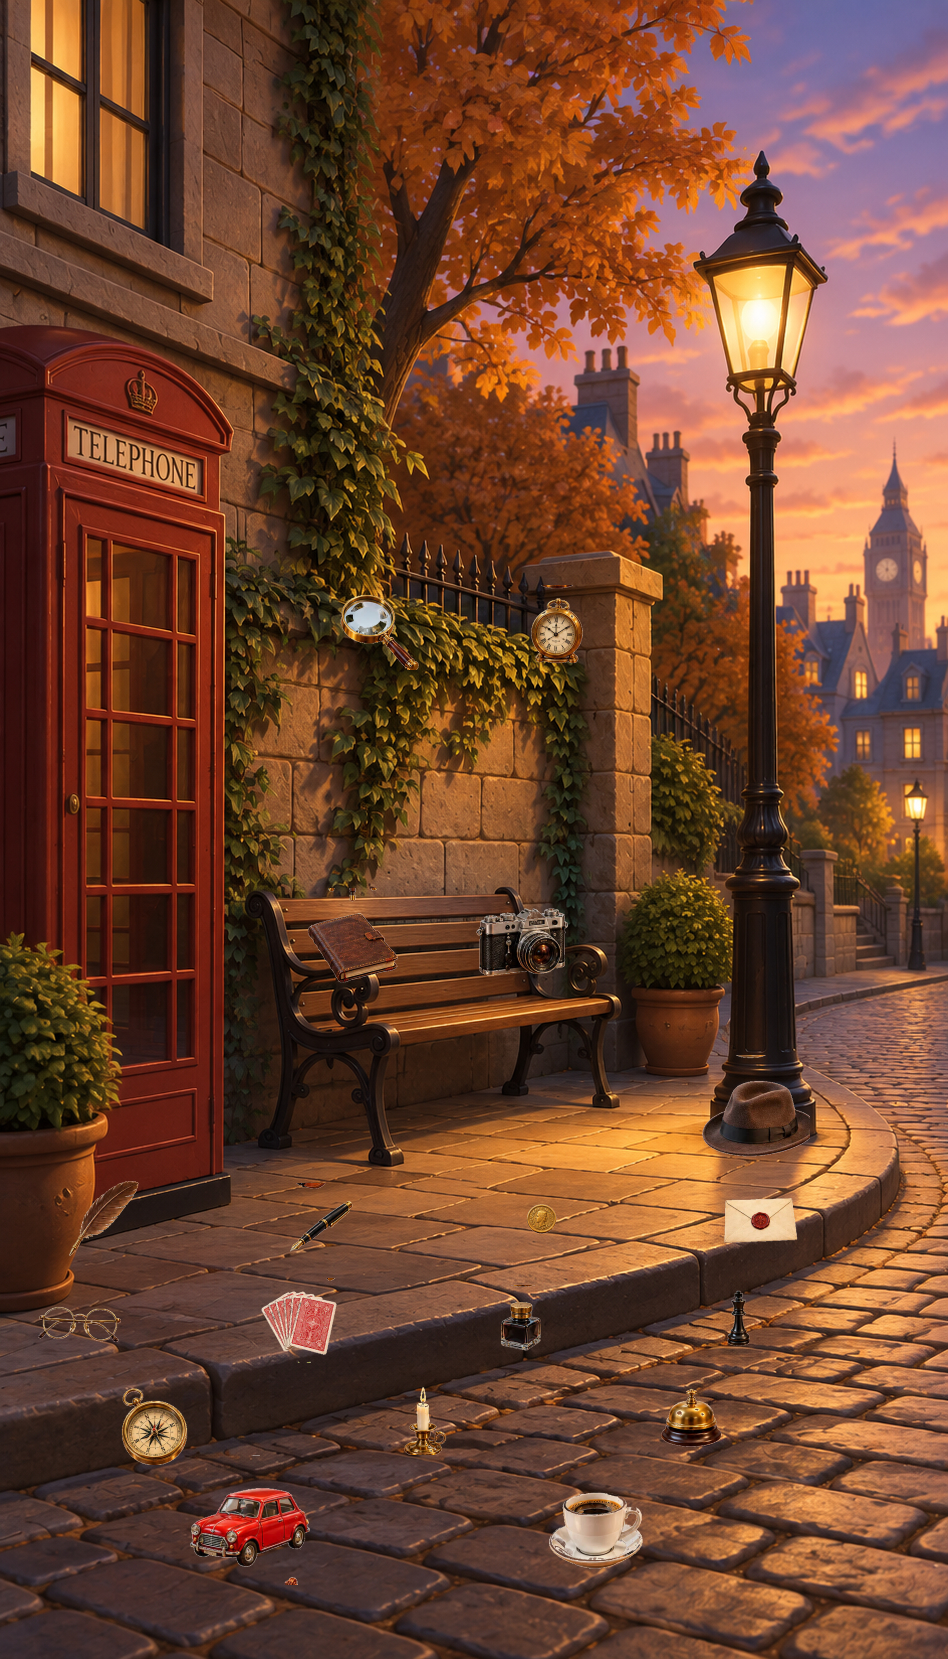
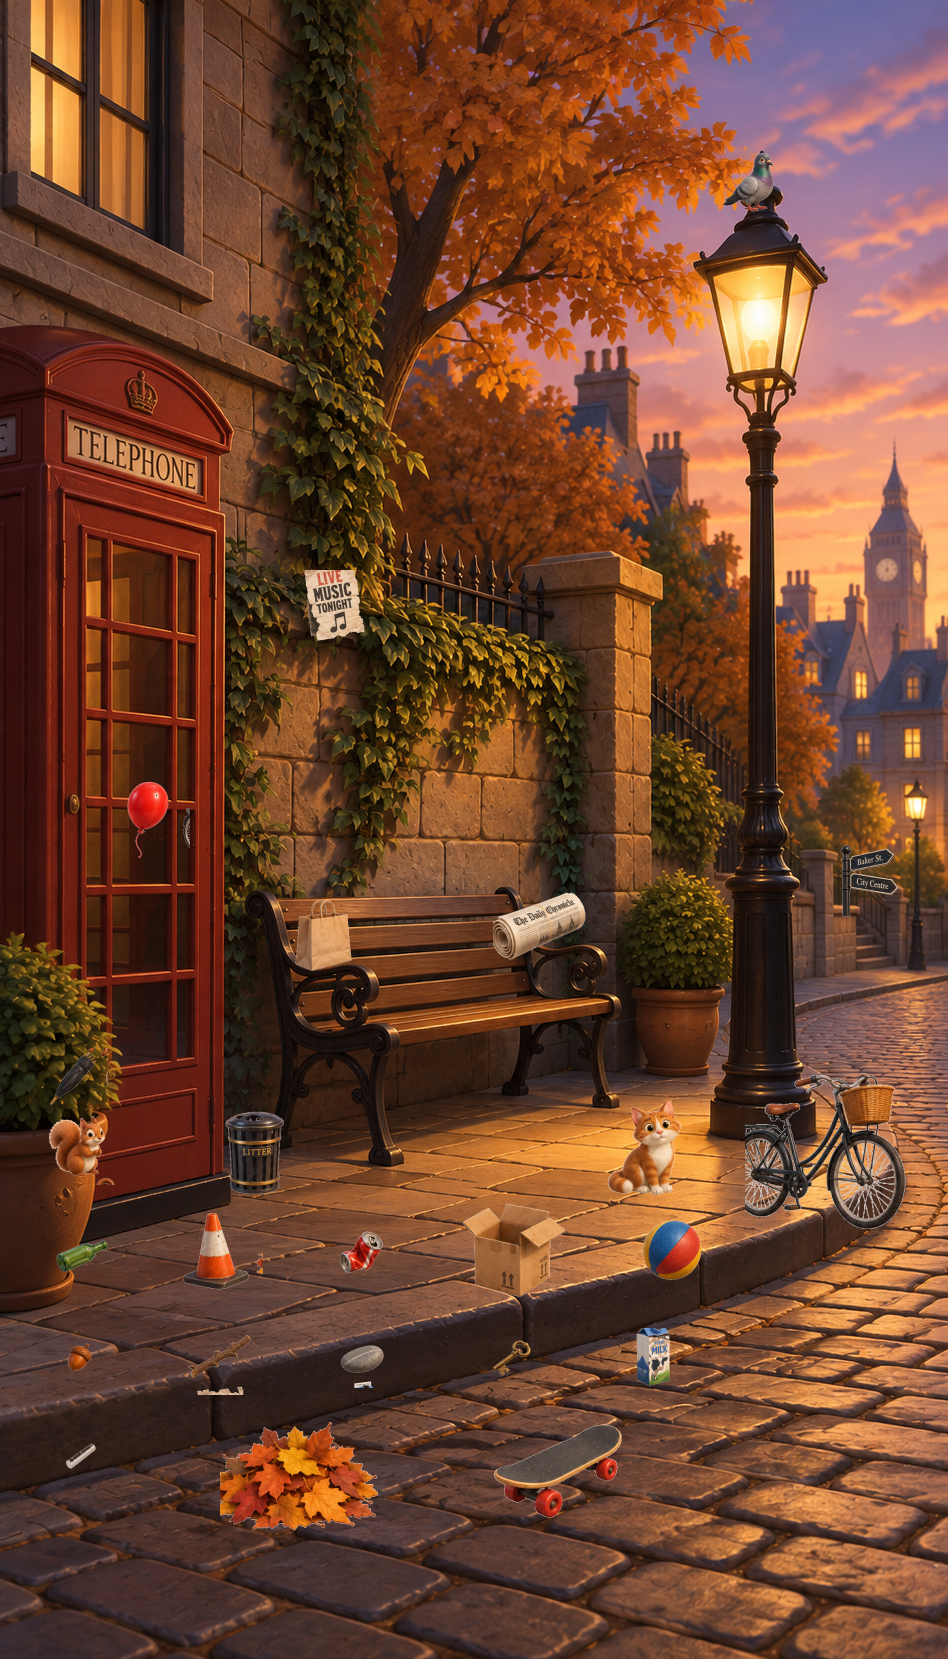
Give level 2 street-themed objects instead of reused office items
Level 2 previously reused level 1's office objects (chess piece,
candle, inkwell...) which looked out of place scattered on an
outdoor street corner. Replaces them with 24 objects that actually
belong there: a pigeon on the lamppost, a cat and squirrel, a
bicycle, litter bin, fallen leaves, and other street clutter, each
composited onto the clean background with the same zero-trace cover
technique as level 1.

Claude-Session: https://claude.ai/code/session_01Am8RfmmEM96ZWNENoJi2oS

diff --git a/src/data/detectiveHiddenMissions.ts b/src/data/detectiveHiddenMissions.ts
@@ -22,24 +22,30 @@ const DETECTIVE_OBJECTS: HiddenObjectItem[] = [
 ];
 
 const DETECTIVE_OBJECTS_L2: HiddenObjectItem[] = [
-    { id: 'quill', left: 5.8, top: 70.83, width: 9.49, height: 5.42, icon: require('../../assets/missions/detective/icons/quill.jpg'), cover: require('../../assets/missions/detective/covers2/quill.jpg'), labelAr: 'ريشة الكتابة', labelEn: 'Quill' },
-    { id: 'pen', left: 29.85, top: 71.31, width: 7.91, height: 4.52, icon: require('../../assets/missions/detective/icons/pen.jpg'), cover: require('../../assets/missions/detective/covers2/pen.jpg'), labelAr: 'القلم', labelEn: 'Pen' },
-    { id: 'coin', left: 54.11, top: 71.91, width: 5.8, height: 3.32, icon: require('../../assets/missions/detective/icons/coin.jpg'), cover: require('../../assets/missions/detective/covers2/coin.jpg'), labelAr: 'العملة', labelEn: 'Coin' },
-    { id: 'envelope', left: 75.95, top: 71.13, width: 8.44, height: 4.82, icon: require('../../assets/missions/detective/icons/envelope.jpg'), cover: require('../../assets/missions/detective/covers2/envelope.jpg'), labelAr: 'الظرف', labelEn: 'Envelope' },
-    { id: 'glasses', left: 3.69, top: 76.85, width: 9.49, height: 5.42, icon: require('../../assets/missions/detective/icons/glasses.jpg'), cover: require('../../assets/missions/detective/covers2/glasses.jpg'), labelAr: 'النظارة', labelEn: 'Glasses' },
-    { id: 'cards', left: 27.22, top: 77.03, width: 8.97, height: 5.12, icon: require('../../assets/missions/detective/icons/cards.jpg'), cover: require('../../assets/missions/detective/covers2/cards.jpg'), labelAr: 'أوراق اللعب', labelEn: 'Playing cards' },
-    { id: 'inkwell', left: 51.16, top: 77.46, width: 7.38, height: 4.22, icon: require('../../assets/missions/detective/icons/inkwell.jpg'), cover: require('../../assets/missions/detective/covers2/inkwell.jpg'), labelAr: 'دواة الحبر', labelEn: 'Inkwell' },
-    { id: 'chesspiece', left: 74.68, top: 77.64, width: 6.86, height: 3.92, icon: require('../../assets/missions/detective/icons/chesspiece.jpg'), cover: require('../../assets/missions/detective/covers2/chesspiece.jpg'), labelAr: 'قطعة الشطرنج', labelEn: 'Chess piece' },
-    { id: 'compass', left: 11.08, top: 82.88, width: 9.49, height: 5.42, icon: require('../../assets/missions/detective/icons/compass.jpg'), cover: require('../../assets/missions/detective/covers2/compass.jpg'), labelAr: 'البوصلة', labelEn: 'Compass' },
-    { id: 'candle', left: 40.61, top: 83.48, width: 7.38, height: 4.22, icon: require('../../assets/missions/detective/icons/candle.jpg'), cover: require('../../assets/missions/detective/covers2/candle.jpg'), labelAr: 'الشمعة', labelEn: 'Candle' },
-    { id: 'bell', left: 68.35, top: 83.06, width: 8.97, height: 5.12, icon: require('../../assets/missions/detective/icons/bell.jpg'), cover: require('../../assets/missions/detective/covers2/bell.jpg'), labelAr: 'الجرس', labelEn: 'Bell' },
-    { id: 'toycar', left: 19.51, top: 87.7, width: 13.71, height: 7.84, icon: require('../../assets/missions/detective/icons/toycar.jpg'), cover: require('../../assets/missions/detective/covers2/toycar.jpg'), labelAr: 'سيارة اللعبة', labelEn: 'Toy car' },
-    { id: 'coffee', left: 57.49, top: 88.31, width: 11.6, height: 6.63, icon: require('../../assets/missions/detective/icons/coffee.jpg'), cover: require('../../assets/missions/detective/covers2/coffee.jpg'), labelAr: 'فنجان القهوة', labelEn: 'Coffee cup' },
-    { id: 'notebook', left: 31.96, top: 53.53, width: 10.02, height: 5.73, icon: require('../../assets/missions/detective/icons/notebook.jpg'), cover: require('../../assets/missions/detective/covers2/notebook.jpg'), labelAr: 'دفتر الملاحظات', labelEn: 'Notebook' },
-    { id: 'camera', left: 49.58, top: 53.35, width: 10.55, height: 6.03, icon: require('../../assets/missions/detective/icons/camera.jpg'), cover: require('../../assets/missions/detective/covers2/camera.jpg'), labelAr: 'الكاميرا', labelEn: 'Camera' },
-    { id: 'magnifier', left: 35.34, top: 34.96, width: 9.49, height: 5.42, icon: require('../../assets/missions/detective/icons/magnifier.jpg'), cover: require('../../assets/missions/detective/covers2/magnifier.jpg'), labelAr: 'المكبرة', labelEn: 'Magnifying glass' },
-    { id: 'clock', left: 54.85, top: 35.26, width: 8.44, height: 4.82, icon: require('../../assets/missions/detective/icons/clock.jpg'), cover: require('../../assets/missions/detective/covers2/clock.jpg'), labelAr: 'الساعة', labelEn: 'Clock' },
-    { id: 'hat', left: 73.84, top: 63.59, width: 11.6, height: 6.63, icon: require('../../assets/missions/detective/icons/hat.jpg'), cover: require('../../assets/missions/detective/covers2/hat.jpg'), labelAr: 'القبعة', labelEn: 'Hat' },
+    { id: 'bottle', left: 5.59, top: 73.72, width: 5.8, height: 3.32, icon: require('../../assets/missions/detective/icons/bottle.jpg'), cover: require('../../assets/missions/detective/covers2/bottle.jpg'), labelAr: 'زجاجة فارغة', labelEn: 'Empty bottle' },
+    { id: 'cone', left: 18.78, top: 72.81, width: 8.97, height: 5.12, icon: require('../../assets/missions/detective/icons/cone.jpg'), cover: require('../../assets/missions/detective/covers2/cone.jpg'), labelAr: 'مخروط تحذيري', labelEn: 'Traffic cone' },
+    { id: 'sodacan', left: 35.13, top: 73.72, width: 5.8, height: 3.32, icon: require('../../assets/missions/detective/icons/sodacan.jpg'), cover: require('../../assets/missions/detective/covers2/sodacan.jpg'), labelAr: 'علبة مشروب', labelEn: 'Soda can' },
+    { id: 'box', left: 48, top: 72.03, width: 11.6, height: 6.63, icon: require('../../assets/missions/detective/icons/box.jpg'), cover: require('../../assets/missions/detective/covers2/box.jpg'), labelAr: 'صندوق كرتون', labelEn: 'Cardboard box' },
+    { id: 'ball', left: 66.77, top: 73.12, width: 7.91, height: 4.52, icon: require('../../assets/missions/detective/icons/ball.jpg'), cover: require('../../assets/missions/detective/covers2/ball.jpg'), labelAr: 'الكرة', labelEn: 'Ball' },
+    { id: 'acorn', left: 6.33, top: 80.77, width: 4.22, height: 2.41, icon: require('../../assets/missions/detective/icons/acorn.jpg'), cover: require('../../assets/missions/detective/covers2/acorn.jpg'), labelAr: 'حبة بلوط', labelEn: 'Acorn' },
+    { id: 'twig', left: 19.51, top: 79.87, width: 7.38, height: 4.22, icon: require('../../assets/missions/detective/icons/twig.jpg'), cover: require('../../assets/missions/detective/covers2/twig.jpg'), labelAr: 'غصن صغير', labelEn: 'Twig' },
+    { id: 'stone', left: 35.13, top: 80.35, width: 5.8, height: 3.32, icon: require('../../assets/missions/detective/icons/stone.jpg'), cover: require('../../assets/missions/detective/covers2/stone.jpg'), labelAr: 'حجر', labelEn: 'Stone' },
+    { id: 'key', left: 51.48, top: 80.65, width: 4.75, height: 2.71, icon: require('../../assets/missions/detective/icons/key.jpg'), cover: require('../../assets/missions/detective/covers2/key.jpg'), labelAr: 'مفتاح قديم', labelEn: 'Old key' },
+    { id: 'milk', left: 65.19, top: 80.05, width: 6.86, height: 3.92, icon: require('../../assets/missions/detective/icons/milk.jpg'), cover: require('../../assets/missions/detective/covers2/milk.jpg'), labelAr: 'علبة حليب', labelEn: 'Milk carton' },
+    { id: 'chalk', left: 6.33, top: 86.8, width: 4.22, height: 2.41, icon: require('../../assets/missions/detective/icons/chalk.jpg'), cover: require('../../assets/missions/detective/covers2/chalk.jpg'), labelAr: 'قطعة طباشير', labelEn: 'Chalk' },
+    { id: 'leafpile', left: 23.21, top: 83.79, width: 16.88, height: 9.64, icon: require('../../assets/missions/detective/icons/leafpile.jpg'), cover: require('../../assets/missions/detective/covers2/leafpile.jpg'), labelAr: 'كومة أوراق', labelEn: 'Leaf pile' },
+    { id: 'skateboard', left: 51.69, top: 84.39, width: 14.77, height: 8.44, icon: require('../../assets/missions/detective/icons/skateboard.jpg'), cover: require('../../assets/missions/detective/covers2/skateboard.jpg'), labelAr: 'لوح التزلج', labelEn: 'Skateboard' },
+    { id: 'bag', left: 29.54, top: 53.95, width: 8.44, height: 4.82, icon: require('../../assets/missions/detective/icons/bag.jpg'), cover: require('../../assets/missions/detective/covers2/bag.jpg'), labelAr: 'كيس ورقي', labelEn: 'Paper bag' },
+    { id: 'newspaper', left: 52, top: 53.53, width: 10.02, height: 5.73, icon: require('../../assets/missions/detective/icons/newspaper.jpg'), cover: require('../../assets/missions/detective/covers2/newspaper.jpg'), labelAr: 'جريدة', labelEn: 'Newspaper' },
+    { id: 'cat', left: 63.29, top: 66.31, width: 10.55, height: 6.03, icon: require('../../assets/missions/detective/icons/cat.jpg'), cover: require('../../assets/missions/detective/covers2/cat.jpg'), labelAr: 'القطة', labelEn: 'Cat' },
+    { id: 'poster', left: 30.59, top: 34.36, width: 8.44, height: 4.82, icon: require('../../assets/missions/detective/icons/poster.jpg'), cover: require('../../assets/missions/detective/covers2/poster.jpg'), labelAr: 'ملصق', labelEn: 'Poster' },
+    { id: 'pigeon', left: 76.27, top: 8.92, width: 6.86, height: 3.92, icon: require('../../assets/missions/detective/icons/pigeon.jpg'), cover: require('../../assets/missions/detective/covers2/pigeon.jpg'), labelAr: 'الحمامة', labelEn: 'Pigeon' },
+    { id: 'bicycle', left: 78.59, top: 64.2, width: 17.93, height: 10.25, icon: require('../../assets/missions/detective/icons/bicycle.jpg'), cover: require('../../assets/missions/detective/covers2/bicycle.jpg'), labelAr: 'الدراجة', labelEn: 'Bicycle' },
+    { id: 'streetsign', left: 87.87, top: 50.81, width: 7.91, height: 4.52, icon: require('../../assets/missions/detective/icons/streetsign.jpg'), cover: require('../../assets/missions/detective/covers2/streetsign.jpg'), labelAr: 'لوحة الشارع', labelEn: 'Street sign' },
+    { id: 'umbrella', left: 4.54, top: 63.17, width: 6.86, height: 3.92, icon: require('../../assets/missions/detective/icons/umbrella.jpg'), cover: require('../../assets/missions/detective/covers2/umbrella.jpg'), labelAr: 'المظلة', labelEn: 'Umbrella' },
+    { id: 'litterbin', left: 21.62, top: 66.61, width: 9.49, height: 5.42, icon: require('../../assets/missions/detective/icons/litterbin.jpg'), cover: require('../../assets/missions/detective/covers2/litterbin.jpg'), labelAr: 'سلة المهملات', labelEn: 'Litter bin' },
+    { id: 'balloon', left: 11.6, top: 47.02, width: 8.44, height: 4.82, icon: require('../../assets/missions/detective/icons/balloon.jpg'), cover: require('../../assets/missions/detective/covers2/balloon.jpg'), labelAr: 'البالون', labelEn: 'Balloon' },
+    { id: 'squirrel', left: 4.75, top: 67.21, width: 7.38, height: 4.22, icon: require('../../assets/missions/detective/icons/squirrel.jpg'), cover: require('../../assets/missions/detective/covers2/squirrel.jpg'), labelAr: 'السنجاب', labelEn: 'Squirrel' },
 ];
 
 export const DETECTIVE_HIDDEN_MISSIONS: HiddenObjectMission[] = [
@@ -66,7 +72,7 @@ export const DETECTIVE_HIDDEN_MISSIONS: HiddenObjectMission[] = [
     promptEn: 'Level 2: Find the listed objects around the street corner! 🔍',
     lives: 3,
     hints: 3,
-    targetIds: ['cards', 'compass', 'coin', 'candle'],
+    targetIds: ['key', 'acorn', 'pigeon', 'cat'],
     objects: DETECTIVE_OBJECTS_L2,
   },
   {
